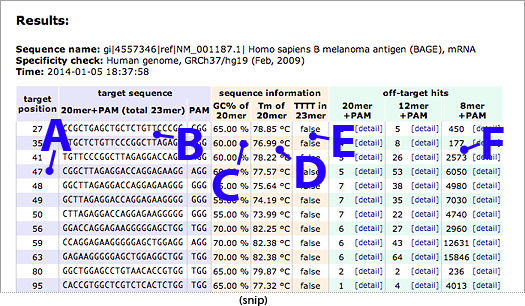
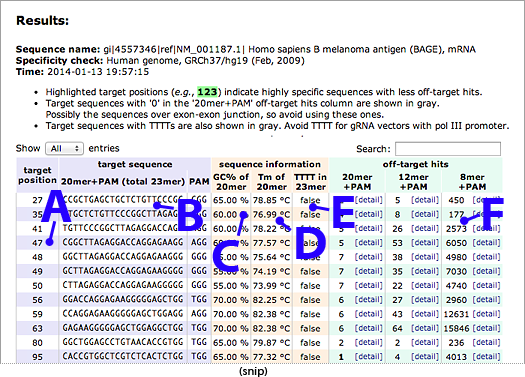
DataTables導入に合わせてヘルプページを更新

diff --git a/doc/index.html b/doc/index.html
@@ -81,11 +81,12 @@
 	</ul>
 </ol>
 
-<img src='CRISPR_BAGE_result1.png' width=525 height=306 border=0>
+<img src='CRISPR_BAGE_result1.png' width=525 height=377 border=0>
 
 <ol type=A start=7>
 	<li>Only one hit in the 20mer and the 12mer columns. These targets are highly specific.<br>
 		<font color=brown>&rarr; Recommended for CRISPR/Cas target.</font>
+		Target positions are highlighted with green (<i>e.g.</i>, <em>123</em>).
 	<li>No hit in the 20mer column. Possibly the sequences over exon-exon junction, so avoid using these ones.<br>
 		<font color=brown>&rarr; Not recommended for CRISPR/Cas target.</font>
 	<li>Very high number of off-target hits. Avoid using these sequences.<br>
